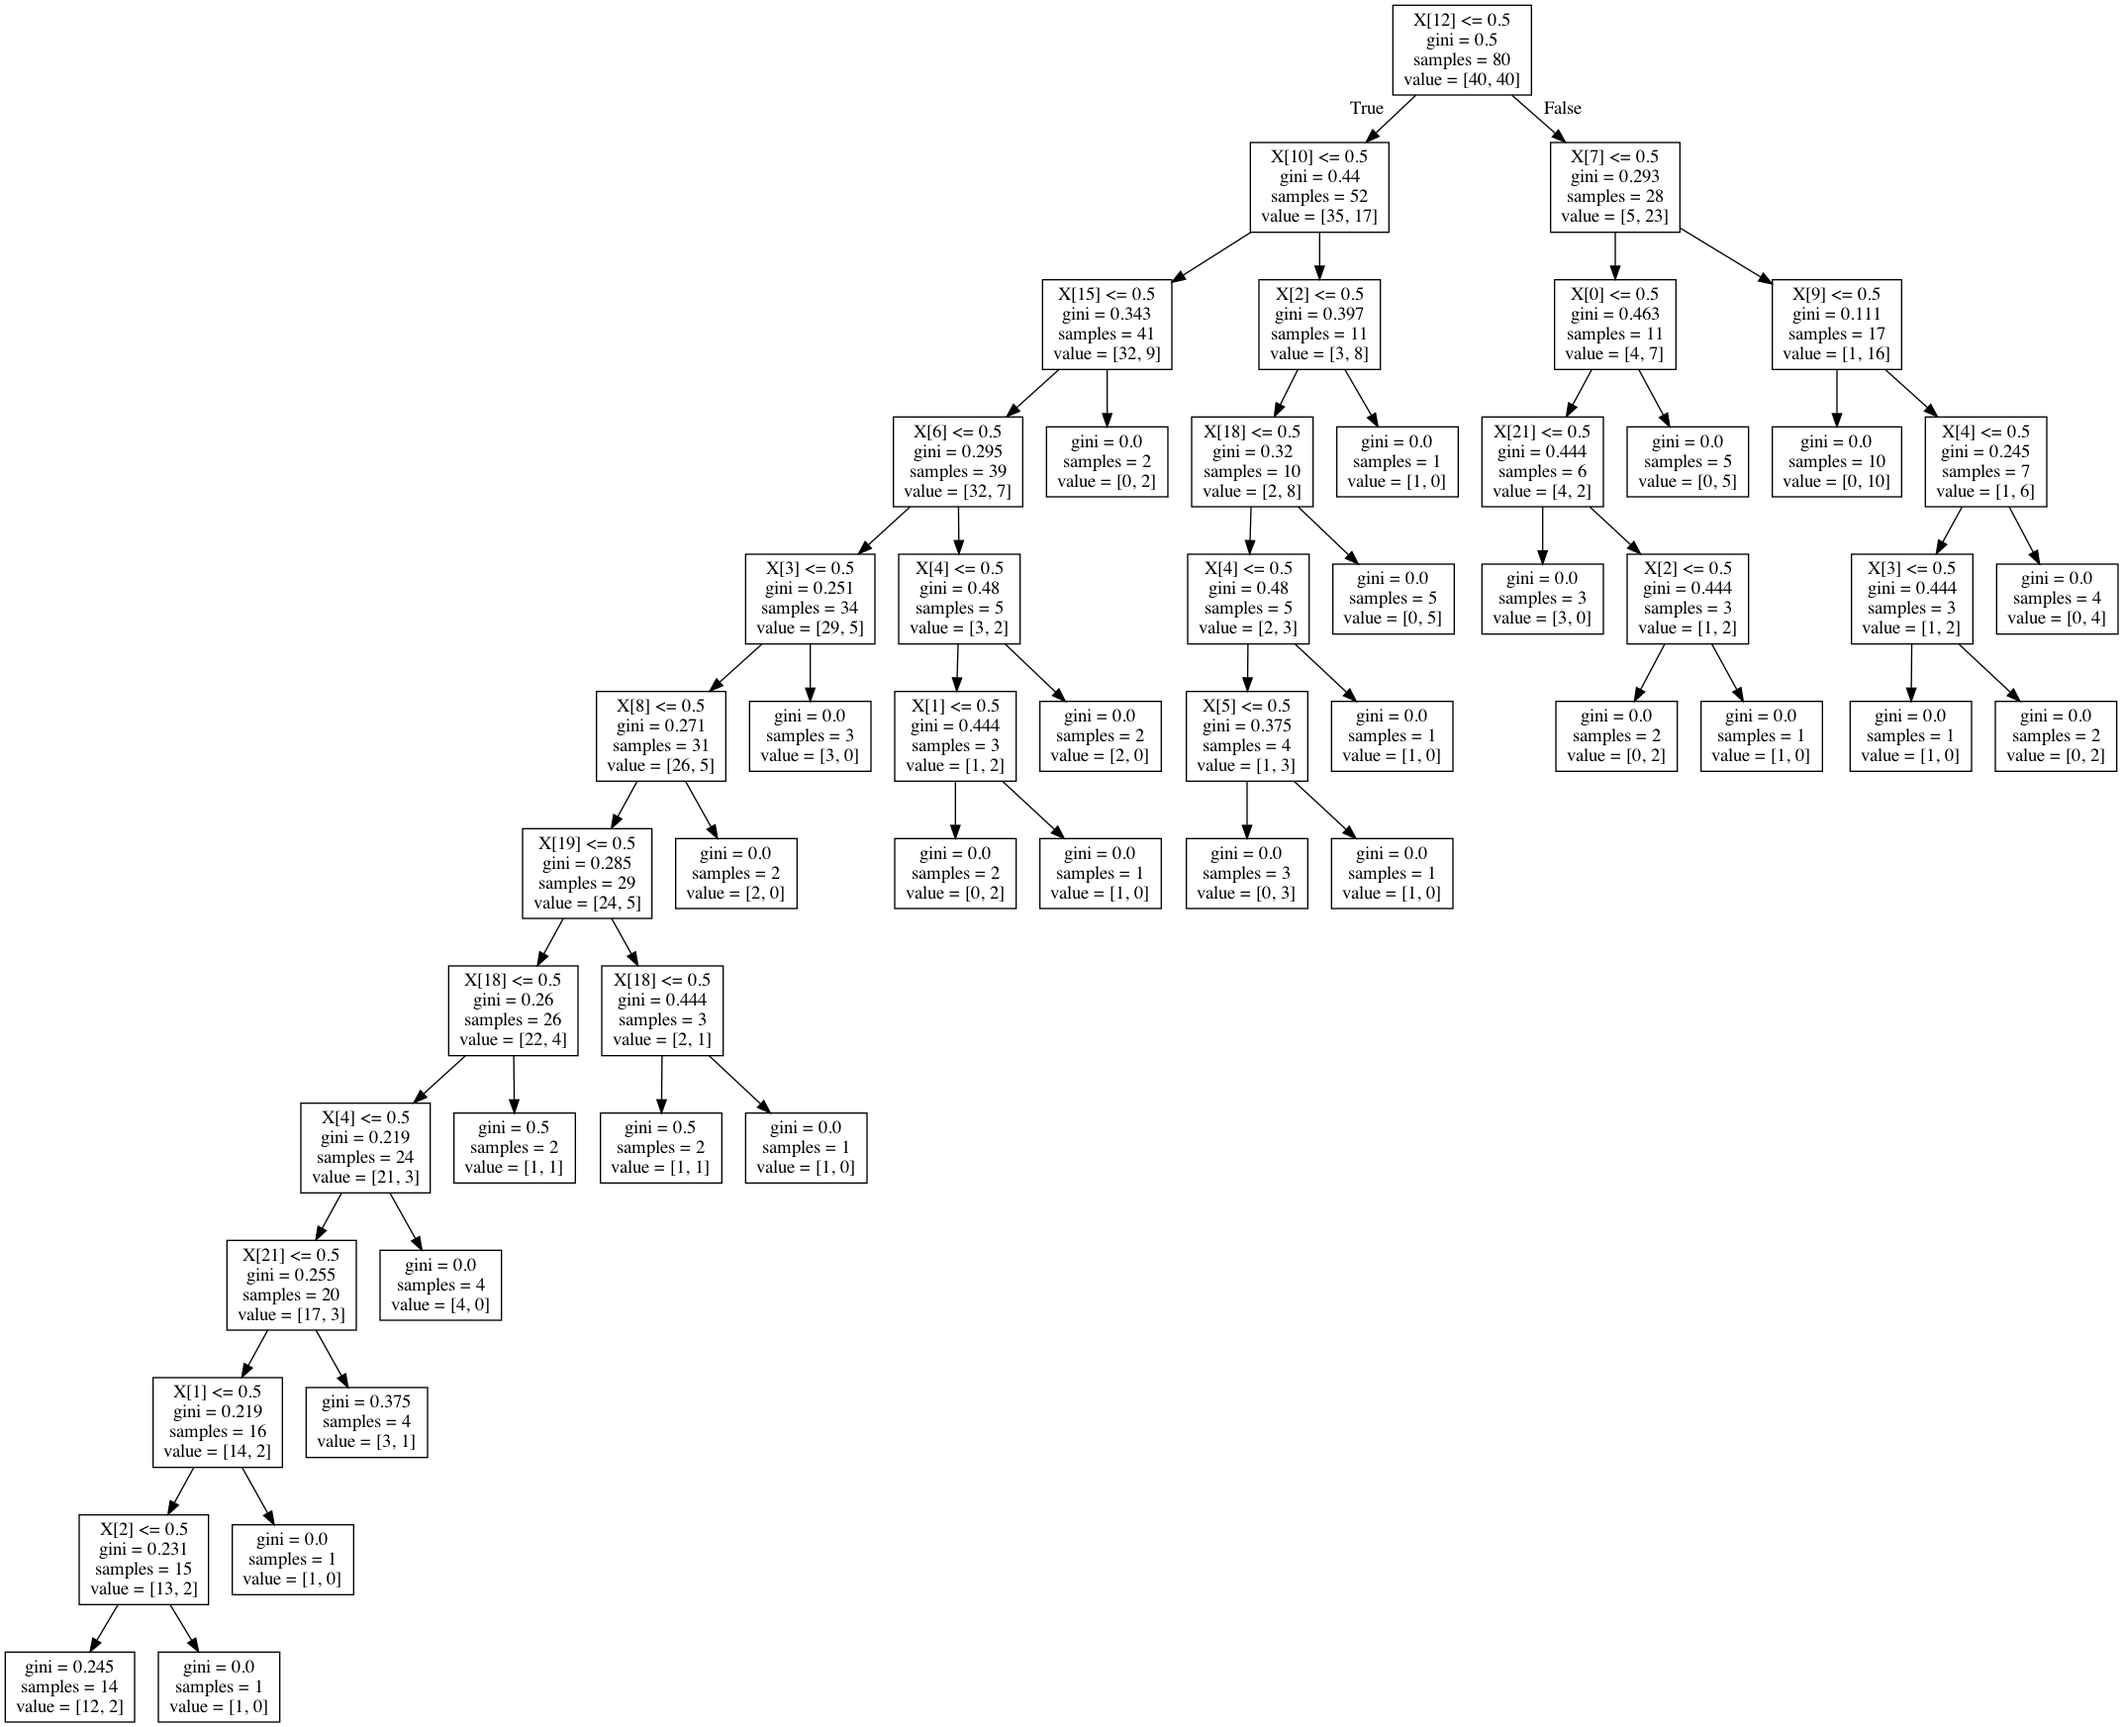
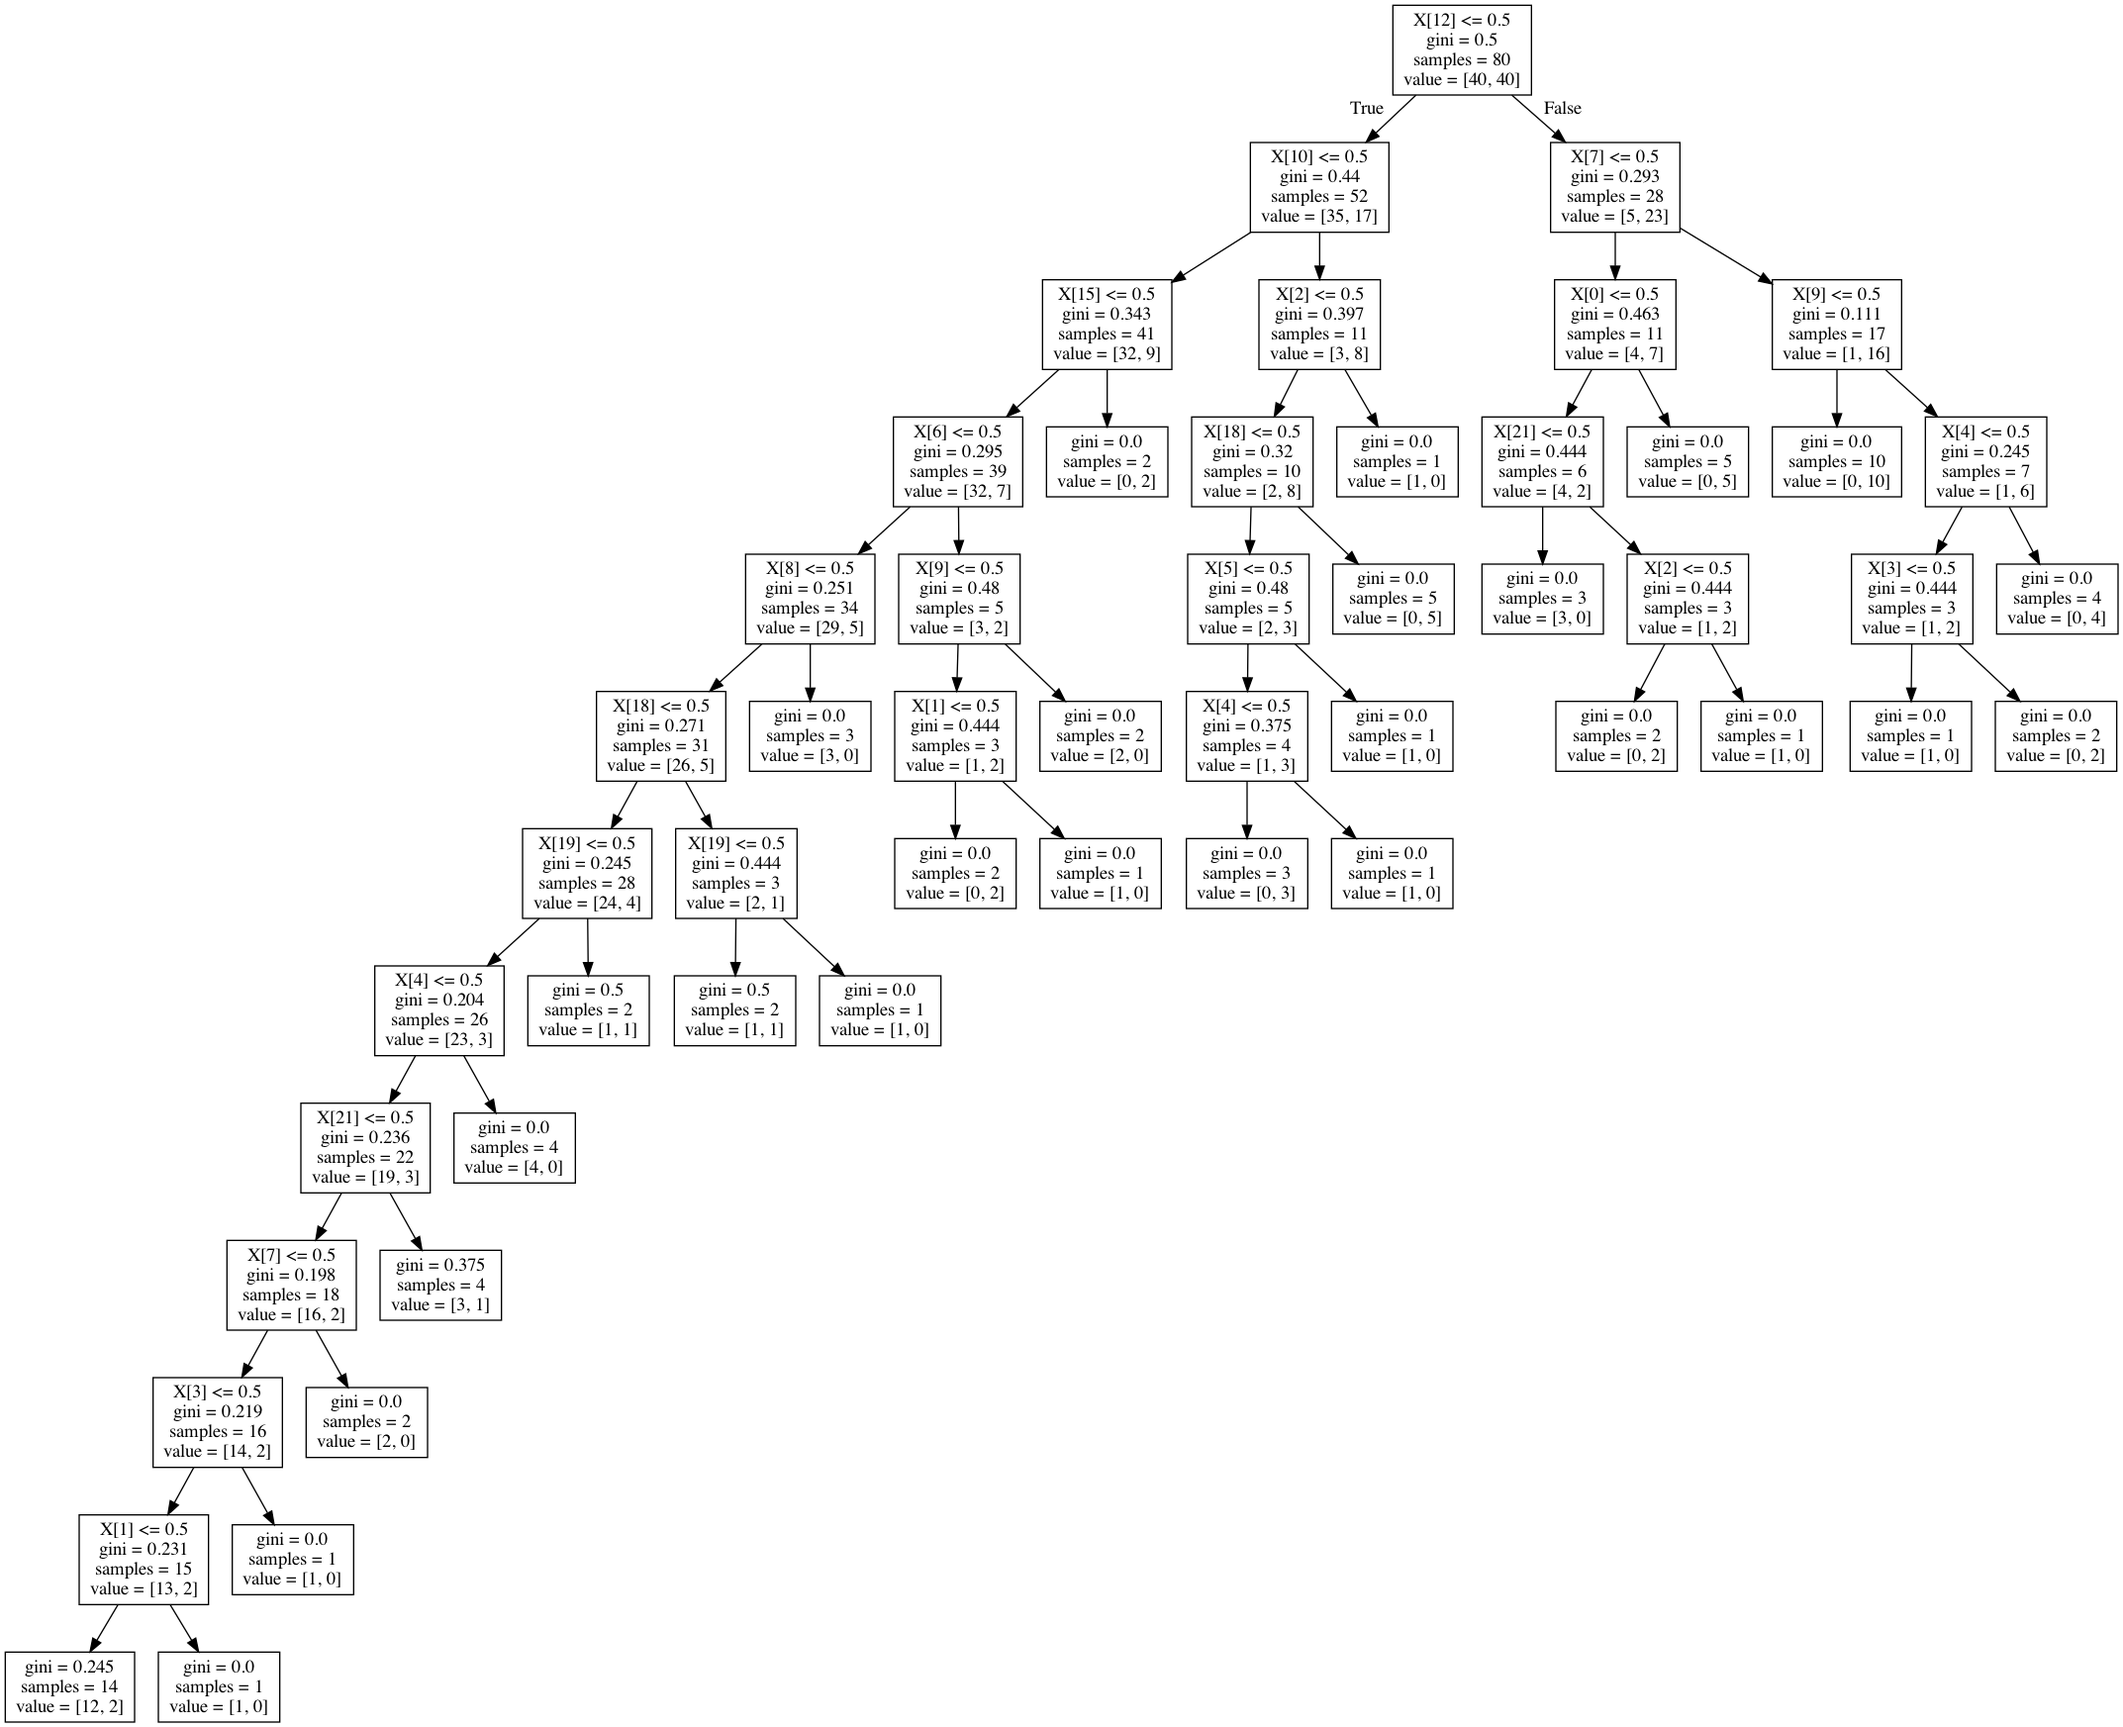
C-1 to submission

diff --git a/main.py b/main.py
@@ -12,7 +12,7 @@ if __name__ == "__main__":
    sys.stdout = open('output.txt', 'w')
 
 ## For parts a) and b)
-   
+
 for monkNum in range (1, 4):
     df = pd.read_csv('./csv/monks-'+str(monkNum)+'.train.csv')
     trainingData = []
@@ -63,13 +63,13 @@ testData = tandt.createTestData(testData, df)
 # Create tree using scikit and find errors
 print('\n\nScikit Learn on Monks-1 Data:')
 # Create tree and find test error
-testErrors = us.CreateScikitTree(trainingData,testData)
+testErrors = us.CreateScikitTree(trainingData,testData,1)
 
 print("Confusion Matrix for Monks-1 Using Scikit:\n")
 errorVals = tandt.findResults(testErrors, 1)
 
 ## For part d)
-   
+
 ## Spect Data
 
 # create the training data for SPECT
@@ -112,7 +112,7 @@ tandt.displayTable(trainingErrorList1,testErrorList1)
 print('\n\nScikit Learn on SPECT Data:')
 
 # Create tree and find test error
-testErrors = us.CreateScikitTree(trainingData,testData)
+testErrors = us.CreateScikitTree(trainingData,testData,2)
 
 print("Confusion Matrix:\n")
 errorVals = tandt.findResults(testErrors, 1)

diff --git a/usingScikit.py b/usingScikit.py
@@ -1,8 +1,8 @@
 from sklearn import tree
 import graphviz
 
-def CreateScikitTree(trainingData,testData):
-  
+def CreateScikitTree(trainingData,testData,mode):
+
   # Set the labels and features
   labels_Y = [trainingExample.label for trainingExample in trainingData]
   features_X = [trainingExample.featureVector for trainingExample in trainingData]
@@ -12,7 +12,7 @@ def CreateScikitTree(trainingData,testData):
 
   # Find the training error
   preds = dtClassifier.predict(features_X)
-  
+
   ## Check training errors
   trainErrors = []
   #print(preds)
@@ -32,6 +32,9 @@ def CreateScikitTree(trainingData,testData):
 
   dot_data = tree.export_graphviz(dtClassifier, out_file=None)
   graph = graphviz.Source(dot_data)
-  graph.render("./plots/sciSPECT", format="png")
-  
+  if mode==2:
+      graph.render("./plots/sciSPECT", format="png")
+  else:
+      graph.render("./plots/sciMonks", format="png")
+
   return testErrors

diff --git a/README.md b/README.md
@@ -1,19 +1,160 @@
 # decisionTree
 An implementation of the ID3 algorithm for decision trees.
 
-## Graphs on various data sets.
+## Answers to questions (by parts)
 
-### Monks-1 data
+### Part A
+Plots of error vs tree depth
+
+#### Monks-1 data
 ![](plots/Monk1.png)
 
-### Monks-2 data
+#### Monks-2 data
 ![](plots/Monk2.png)
 
-### Monks-3 data
+#### Monks-3 data
 ![](plots/Monk3.png)
 
-### SPECT data
+### Part B
+Learned Decision Tree and Confusion Matrices for depths 1 and 2 on Monks1 data.
+
+#### Decision Tree of Depth 1
+Node value = None
+ Feature f1{1, 2, 3}
+
+	Node value = 1
+	Label value = 0
+
+	Node value = 2
+	Label value = 1
+
+	Node value = 3
+	Label value = 1
+
+
+#### The Confusion Matrix on the Training Set for Depth of  1 :
+048 | 014
+031 | 031
+#### The Confusion Matrix on the Test Set for Depth of  1 :
+144 | 072
+144 | 072
+
+#### Decision Tree of Depth 2
+Node value = None
+ Feature f1{1, 2, 3}
+
+	Node value = 1
+	 Feature f2{1, 2, 3}
+
+		Node value = 1
+		Label value = 1
+
+		Node value = 2
+		Label value = 0
+
+		Node value = 3
+		Label value = 0
+
+	Node value = 2
+	 Feature f2{1, 2, 3}
+
+		Node value = 1
+		Label value = 0
+
+		Node value = 2
+		Label value = 1
+
+		Node value = 3
+		Label value = 0
+
+	Node value = 3
+	 Feature f2{1, 2, 3}
+
+		Node value = 1
+		Label value = 0
+
+		Node value = 2
+		Label value = 0
+
+		Node value = 3
+		Label value = 1
+
+
+#### The Confusion Matrix on the Training Set for Depth of  2 :
+041 | 021
+000 | 062
+#### The Confusion Matrix on the Test Set for Depth of  2 :
+144 | 072
+000 | 216
+
+
+###  Part C SciKit Learn's Decision tree for Monks1 data
+
+#### Tree Generated by SciKit Learn on Monks data
+![](plots/sciMonks.png)
+
+#### Confusion Matrix for Monks-1 Using Scikit:
+
+200 | 016
+036 | 180
+
+###  Part D Custom decisionTree and SciKit Learn's Decision tree for SPECT data
+
+#### Plot of error vs tree depth (decisionTree class)
 ![](plots/SPECT.png)
 
-### Tree Generated by SciKit Learn on SPECT data
+#### Decision Tree of Depth 1
+Node value = None
+ Feature f1{0, 1}
+
+	Node value = 0
+	Label value = 0
+
+	Node value = 1
+	Label value = 1
+
+
+#### The Confusion Matrix on the Training Set for Depth of  1 :
+018 | 022
+011 | 029
+#### The Confusion Matrix on the Test Set for Depth of  1 :
+087 | 085
+003 | 012
+
+#### Decision Tree of Depth 2
+Node value = None
+ Feature f1{0, 1}
+
+	Node value = 0
+	 Feature f2{0, 1}
+
+		Node value = 0
+		Label value = 0
+
+		Node value = 1
+		Label value = 1
+
+	Node value = 1
+	 Feature f2{0, 1}
+
+		Node value = 0
+		Label value = 1
+
+		Node value = 1
+		Label value = 1
+
+
+#### The Confusion Matrix on the Training Set for Depth of  2 :
+022 | 018
+013 | 027
+#### The Confusion Matrix on the Test Set for Depth of  2 :
+105 | 067
+003 | 012
+
+
+#### Tree Generated by SciKit Learn on SPECT data
 ![](plots/sciSPECT.png)
+
+#### Scikit Learn on SPECT Data, Confusion Matrix:
+118 | 054
+003 | 012
